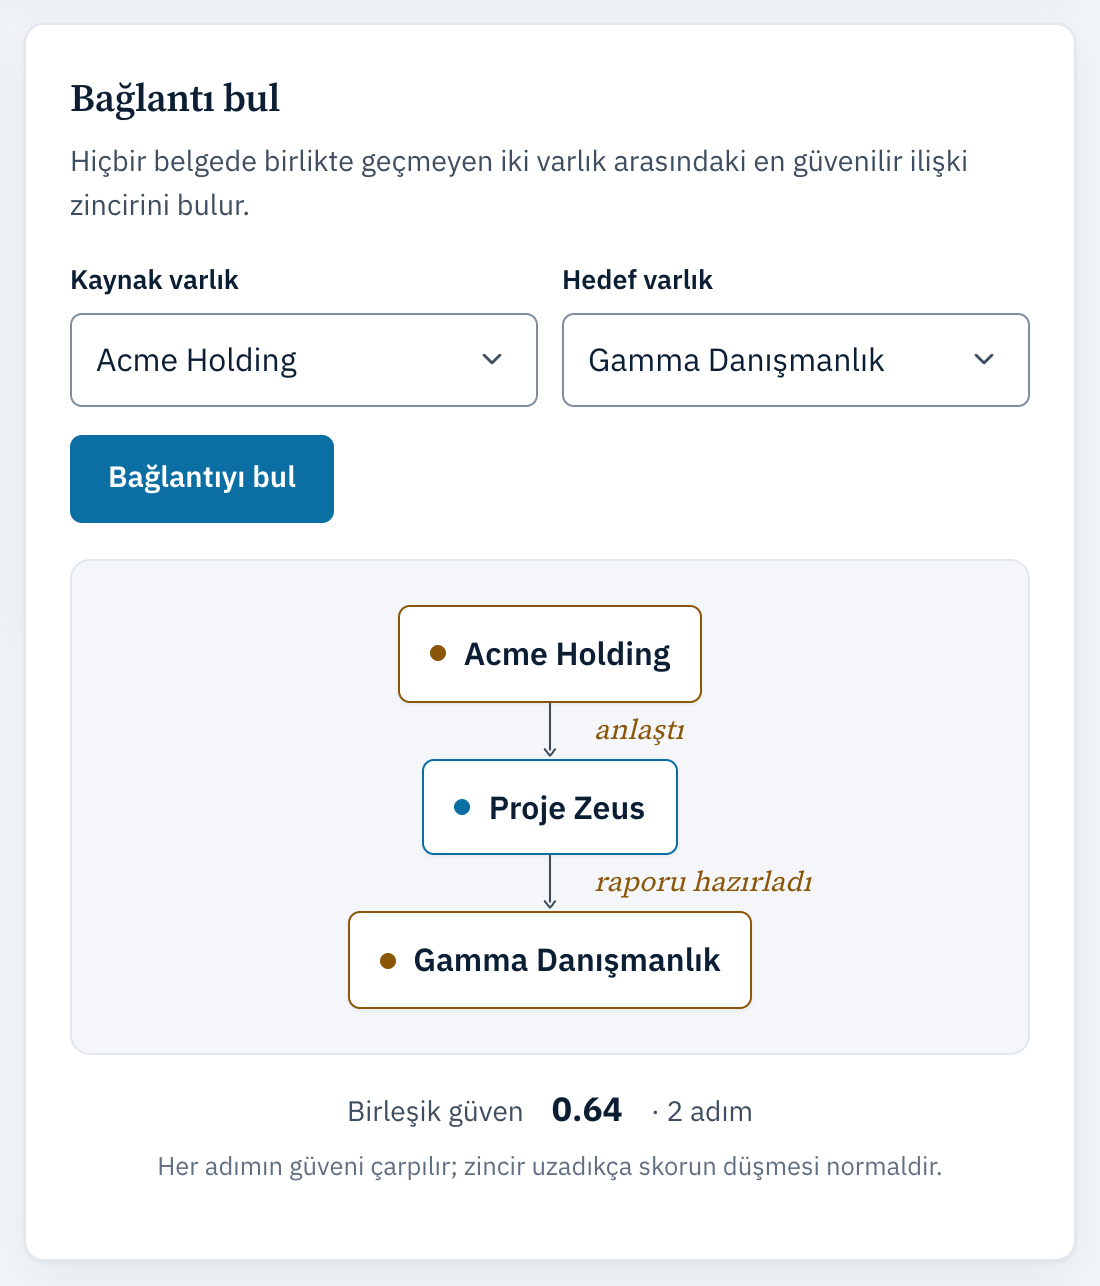
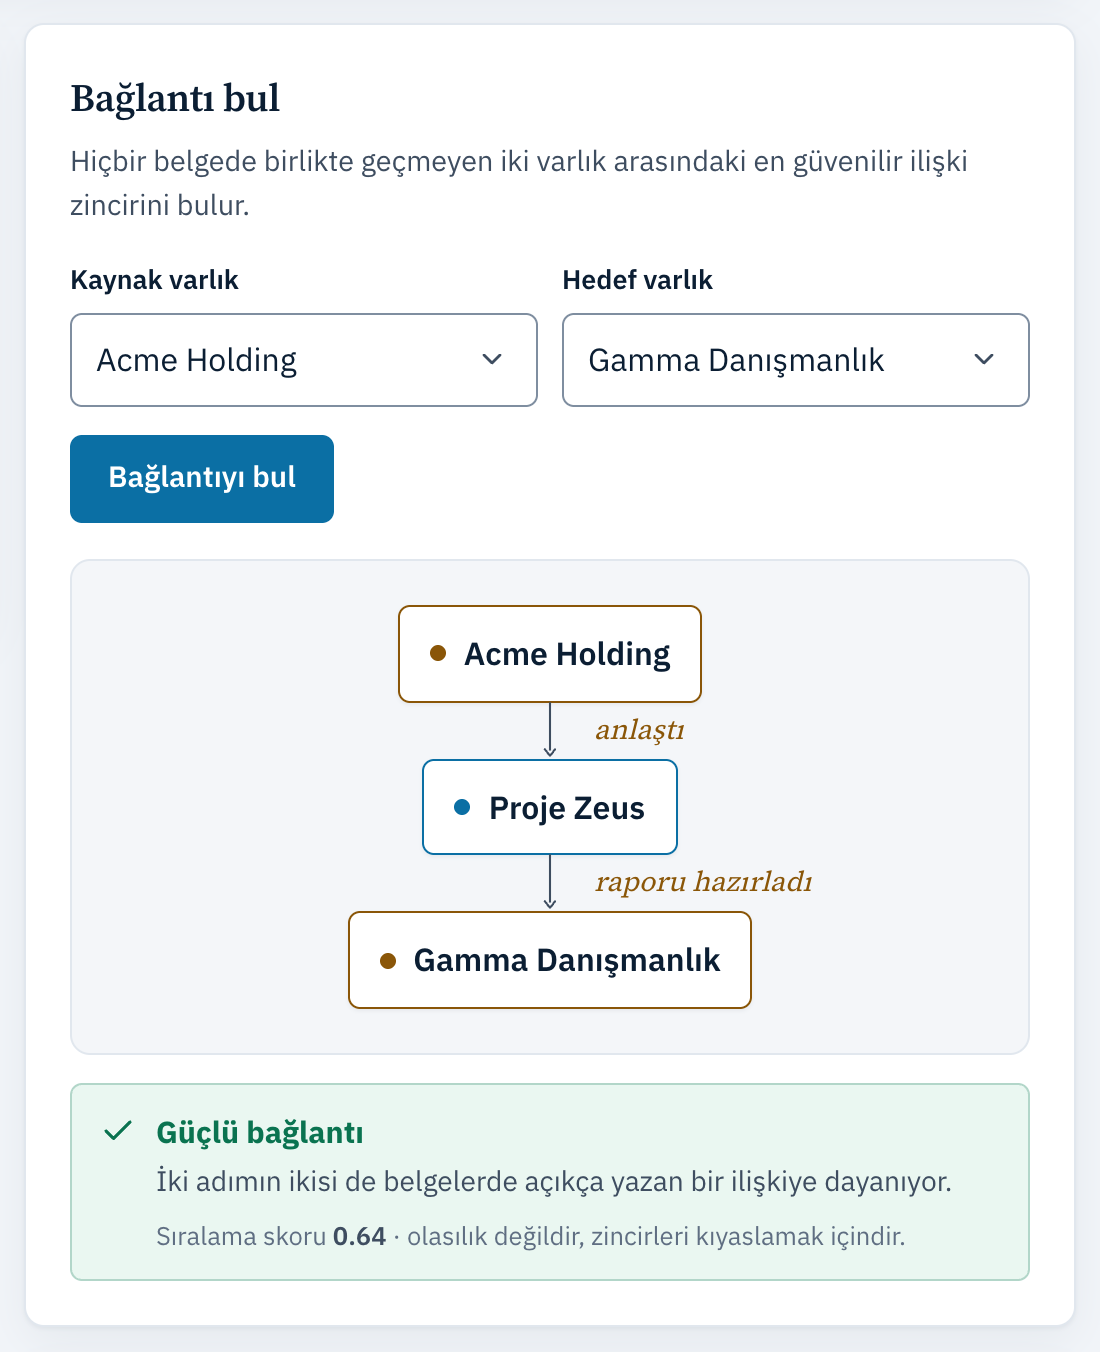
Bağlantı sonucunda skor yerine kanıt türünü göster: her adım açık ilişki mi yoksa yalnızca aynı belgede geçme mi belli olsun. (#44)
Skorun olasılık olmadığı arayüzde ve README'de açıkça yazıyor.

diff --git a/static/index.html b/static/index.html
@@ -304,9 +304,21 @@
       .node { white-space: normal; max-width: 100%; text-align: left; }
     }
 
-    .conf { display: flex; flex-wrap: wrap; justify-content: center; align-items: baseline; gap: 6px 14px; margin-top: 14px; font-size: .88rem; color: var(--muted); text-align: center; }
-    .conf b { color: var(--ink); font-size: 1.05rem; font-variant-numeric: tabular-nums; }
-    .conf small { flex-basis: 100%; color: var(--faint); font-size: .8rem; }
+    /* Yalnızca aynı belgede geçmeye dayanan adım: soluk etiket + kesik ok */
+    .edge.weak .rel { color: var(--muted); }
+    .edge.weak svg path:first-child { stroke-dasharray: 3 3; }
+
+    /* Sonuç kararı: sayıyı değil KANITI öne çıkarır (skor olasılık değildir) */
+    .verdict { display: flex; gap: 10px; margin-top: 14px; padding: 12px 14px; border-radius: var(--r); border: 1px solid; }
+    .verdict svg { width: 18px; height: 18px; flex: 0 0 auto; margin-top: 2px; }
+    .verdict b { display: block; font-size: .95rem; }
+    .verdict p { margin: 2px 0 0; font-size: .88rem; color: var(--muted); }
+    .verdict .score { margin-top: 6px; font-size: .8rem; color: var(--faint); }
+    .verdict .score span { font-variant-numeric: tabular-nums; font-weight: 600; color: var(--muted); }
+    .verdict.strong { background: var(--ok-soft); border-color: color-mix(in srgb, var(--ok) 25%, transparent); }
+    .verdict.strong svg, .verdict.strong b { color: var(--ok); }
+    .verdict.mixed, .verdict.weak { background: var(--amber-soft); border-color: color-mix(in srgb, var(--amber) 25%, transparent); }
+    .verdict.mixed svg, .verdict.mixed b, .verdict.weak svg, .verdict.weak b { color: var(--amber); }
 
     /* ===== Varlık listesi ===== */
     .filter { margin-bottom: 10px; }
@@ -1081,6 +1093,8 @@
     function renderConnection(out, veri) {
       if (!veri.found) { notice(out, "info", veri.message); return; }
       const nodes = veri.nodes, rels = veri.relations || [];
+      // Kanıt türü sunucudan gelir; eski sunucu için etiketten türetilir
+      const kanit = veri.evidence || rels.map(r => r ? "relation" : "co_occurrence");
 
       const wrap = el("div", "chain-wrap");
       const chain = el("ol", "chain");
@@ -1091,22 +1105,49 @@
         chain.appendChild(node);
         if (i < nodes.length - 1) {
           // Ok yalnızca iki düğüm arasına konur; etiket metinden çıkarılan ilişkidir
-          const edge = el("li", "edge");
-          edge.setAttribute("aria-label", rels[i] ? "ilişki: " + rels[i] : "aynı belgede geçiyor");
+          const zayif = kanit[i] !== "relation";
+          const edge = el("li", "edge" + (zayif ? " weak" : ""));
+          edge.setAttribute("aria-label", zayif ? "yalnızca aynı belgede geçiyor" : "ilişki: " + rels[i]);
           edge.style.animationDelay = (i * 0.12 + 0.06) + "s";
-          if (rels[i]) edge.appendChild(el("span", "rel", rels[i]));
+          edge.appendChild(el("span", "rel", zayif ? "aynı belgede" : rels[i]));
           edge.insertAdjacentHTML("beforeend", ICON.arrow);
           chain.appendChild(edge);
         }
       });
       wrap.appendChild(chain);
 
-      const conf = el("p", "conf");
-      conf.append(document.createTextNode("Birleşik güven "),
-                  el("b", null, Number(veri.confidence).toFixed(2)),
-                  document.createTextNode(" · " + (nodes.length - 1) + " adım"),
-                  el("small", null, "Her adımın güveni çarpılır; zincir uzadıkça skorun düşmesi normaldir."));
-      out.replaceChildren(wrap, conf);
+      out.replaceChildren(wrap, kararKutusu(veri, kanit));
+    }
+
+    /* Zincirin neye dayandığını düz Türkçeyle söyler. Skor yalnızca ikincil
+       bilgi: elle seçilmiş ağırlıkların çarpımıdır, kalibre bir olasılık değil. */
+    function kararKutusu(veri, kanit) {
+      const n = kanit.length, t = kanit.filter(k => k === "relation").length, c = n - t;
+      const guc = veri.strength || (t === n ? "strong" : t === 0 ? "weak" : "mixed");
+      const METIN = {
+        strong: ["Güçlü bağlantı", n === 1
+          ? "Bu adım belgelerde açıkça yazan bir ilişkiye dayanıyor."
+          : (n === 2 ? "İki adımın ikisi de" : n + " adımın hepsi") +
+            " belgelerde açıkça yazan bir ilişkiye dayanıyor."],
+        mixed: ["Kısmen dolaylı bağlantı",
+          (n === 2 ? "İki adımdan biri açık bir ilişkiye, diğeri"
+                   : n + " adımdan " + t + " tanesi açık bir ilişkiye, " + c + " tanesi") +
+          " yalnızca aynı belgede geçmeye dayanıyor. Kesik oklu adımı kaynak belgeden doğrulayın."],
+        weak: ["Zayıf bağlantı", n === 1
+          ? "Bu adım açık bir ilişkiye değil, yalnızca aynı belgede geçmeye dayanıyor."
+          : "Adımların hiçbiri açık bir ilişki değil; varlıklar yalnızca aynı belgelerde geçiyor."],
+      }[guc];
+
+      const kutu = el("div", "verdict " + guc);
+      kutu.innerHTML = guc === "strong" ? ICON.check : ICON.alert;
+      const govde = el("div");
+      const skor = el("p", "score");
+      skor.append(document.createTextNode("Sıralama skoru "),
+                  el("span", null, Number(veri.confidence).toFixed(2)),
+                  document.createTextNode(" · olasılık değildir, zincirleri kıyaslamak içindir."));
+      govde.append(el("b", null, METIN[0]), el("p", null, METIN[1]), skor);
+      kutu.appendChild(govde);
+      return kutu;
     }
 
     /* ================================================================

diff --git a/graphrag/application/graphrag_core.py b/graphrag/application/graphrag_core.py
@@ -275,10 +275,17 @@ class GraphRAGCore:
 
         "Bağlantı yok" ile "böyle bir varlık yok" farklı durumlardır; kullanıcıya
         hangisi olduğu söylenir (yazım hatasını fark edebilsin diye).
+
+        KANIT TÜRÜ: `confidence` elle seçilmiş sabitlerin (0.8 / 0.5) çarpımıdır,
+        kalibre edilmiş bir olasılık DEĞİLDİR; zincirleri kıyaslamaya yarar.
+        Kullanıcının asıl bilmesi gereken, her adımın neye dayandığıdır:
+          - `evidence`: her adım için "relation" (metinden çıkarılmış tipli
+            ilişki) ya da "co_occurrence" (yalnızca aynı belgede geçme)
+          - `strength`: "strong" (hepsi ilişki) · "mixed" · "weak" (hiçbiri)
         """
         def bulunamadi(mesaj: str) -> dict:
-            return {"found": False, "nodes": [], "relations": [],
-                    "confidence": 0.0, "message": mesaj}
+            return {"found": False, "nodes": [], "relations": [], "evidence": [],
+                    "strength": "", "confidence": 0.0, "message": mesaj}
 
         kaynak, hedef = canonical_entity_key(source_id), canonical_entity_key(target_id)
         for ad, anahtar in ((source_id, kaynak), (target_id, hedef)):
@@ -294,10 +301,19 @@ class GraphRAGCore:
         except PathNotFoundError:
             return bulunamadi("Bu iki varlık arasında bilinen bir bağlantı bulunamadı.")
 
+        # Etiketi olan kenar metinden çıkarılmış ilişkidir; boş etiket, yalnızca
+        # aynı belgede birlikte geçmeden doğan zayıf kenardır (bkz. ingest).
+        kanit = ["relation" if r else "co_occurrence" for r in path.relations]
+        tipli = kanit.count("relation")
+        guc = ("strong" if tipli == len(kanit)
+               else "weak" if tipli == 0 else "mixed")
+
         return {
             "found": True,
             "nodes": [self._graph.get_node(n).label for n in path.nodes],
             "relations": list(path.relations),
+            "evidence": kanit,
+            "strength": guc,
             "confidence": round(path.probability, 4),
             "message": "",
         }

diff --git a/tests/test_graphrag_core.py b/tests/test_graphrag_core.py
@@ -426,3 +426,50 @@ def test_find_connection_ayni_varligi_reddeder():
     sonuc = core.find_connection_detailed("Acme Holding", "ACME HOLDİNG A.Ş.")
     assert sonuc["found"] is False
     assert "aynı" in sonuc["message"]
+
+
+# ------------------------------------------- kanıt türü (skor olasılık değil)
+
+def test_tipli_iliskiyle_kurulan_zincir_guclu_sayilir():
+    core, loader, _llm, _vec, _graph = _core_kur()
+    core._relations.iliskiler = [
+        Relation(source="Acme Holding", relation="anlaştı", target="Beta Firması")
+    ]
+    loader.texts["a"] = "Acme Holding, Beta Firması ile anlaştı."
+    core.ingest("a")
+
+    sonuc = core.find_connection_detailed("Acme Holding", "Beta Firması")
+
+    assert sonuc["evidence"] == ["relation"]
+    assert sonuc["strength"] == "strong"
+
+
+def test_yalnizca_birlikte_gecme_zayif_sayilir():
+    core, loader, _llm, _vec, _graph = _core_kur()
+    core._relations.iliskiler = []
+    loader.texts["a"] = "Acme Holding ve Beta Firması aynı belgede geçiyor."
+    core.ingest("a")
+
+    sonuc = core.find_connection_detailed("Acme Holding", "Beta Firması")
+
+    assert sonuc["evidence"] == ["co_occurrence"]
+    assert sonuc["strength"] == "weak"
+
+
+def test_iliski_ve_birlikte_gecme_karisinca_karma_sayilir():
+    # Acme --anlaştı--> Proje Zeus (tipli) · Proje Zeus — Gamma (yalnızca birlikte)
+    core, loader, _llm, _vec, _graph = _core_kur()
+    core._relations.iliskiler = [
+        Relation(source="Acme Holding", relation="anlaştı", target="Proje Zeus")
+    ]
+    loader.texts["a"] = "Acme Holding, Proje Zeus için anlaştı."
+    core.ingest("a")
+    core._relations.iliskiler = []
+    loader.texts["b"] = "Proje Zeus kapsamında Gamma Danışmanlık çalıştı."
+    core.ingest("b")
+
+    sonuc = core.find_connection_detailed("Acme Holding", "Gamma Danışmanlık")
+
+    assert sonuc["evidence"] == ["relation", "co_occurrence"]
+    assert sonuc["strength"] == "mixed"
+    assert sonuc["confidence"] == round(0.8 * 0.5, 4)

diff --git a/tests/test_api.py b/tests/test_api.py
@@ -47,7 +47,8 @@ class _SahteCore:
 
     def find_connection_detailed(self, source, target):
         return {"found": True, "nodes": [source, target],
-                "relations": ["anlaştı"], "confidence": 0.5, "message": ""}
+                "relations": ["anlaştı"], "evidence": ["relation"],
+                "strength": "strong", "confidence": 0.8, "message": ""}
 
     def stats(self):
         return {"documents": 1, "chunks": 3, "entities": 4,
@@ -131,6 +132,7 @@ def test_connection_yapilandirilmis_sonuc_doner():
     assert body["found"] is True
     assert body["nodes"] == ["A", "B"]
     assert body["relations"] == ["anlaştı"]
+    assert body["strength"] == "strong"
 
 
 def test_stats_ozet_doner():

diff --git a/README.md b/README.md
@@ -21,7 +21,8 @@ gizli bağlantıları keşfedin — hepsi tamamen yerelde.
 
 Solda: *"Gamma Danışmanlık ne iş yaptı?"* sorusuna iki belgeden 3 parçaya dayanan, kaynaklı cevap.
 Sağda: hiçbir belgede birlikte geçmeyen **Acme Holding ↔ Gamma Danışmanlık**
-firmalarının, bilgi grafı üzerinden bulunan bağlantı zinciri.
+firmalarının, bilgi grafı üzerinden bulunan bağlantı zinciri; iki adımın
+ikisi de metinden çıkarılmış ilişki olduğu için "güçlü bağlantı" olarak işaretlenir.
 
 ---
 
@@ -51,7 +52,7 @@ flowchart LR
     Z -- "raporu hazırladı" --> G["Gamma Danışmanlık"]
 ```
 
-`Birleşik güven: 0.64 · 2 adım · 0.02 saniye`
+`Güçlü bağlantı (2 adımın ikisi de metinden çıkarılmış ilişki) · sıralama skoru 0.64 · 0.02 saniye`
 
 Dikkat edilecek nokta: sistem yalnızca "bağlılar" demez, **her adımın ilişki
 türünü** de metinden çıkarır — böylece zincir okunabilir ve denetlenebilir olur.
@@ -61,6 +62,16 @@ Sonuç bir yapay zekâ tahmini değildir. Graf üzerinde **Dijkstra algoritması
 yolun toplam güveni adımların çarpımı olduğundan, logaritma bu çarpımı toplama
 çevirir ve **en kısa yol = en güvenilir zincir** hâline gelir. Aynı soru her
 zaman aynı cevabı verir.
+
+**Skor bir olasılık değildir.** Kenar güvenleri elle seçilmiş sabitlerdir
+(metinden çıkarılmış ilişki 0.8, yalnızca aynı belgede geçme 0.5) ve veriyle
+kalibre edilmemiştir; 0.64, "%64 ihtimalle doğru" anlamına gelmez, yalnızca
+zincirleri birbiriyle kıyaslamaya yarar. Bu yüzden arayüz sayıyı değil
+**kanıtın türünü** öne çıkarır: her adım ya açık bir ilişki ya da yalnızca
+birlikte geçmedir (kesik okla gösterilir), zincir de buna göre **güçlü**,
+**kısmen dolaylı** ya da **zayıf** olarak işaretlenir. Örnek arşivde bunun
+neden önemli olduğu görülüyor: tek adımlık zayıf bir zincir (0.50) ile üç
+adımlık güçlü bir zincir (0.51) neredeyse aynı skoru alıyor.
 
 ---
 
@@ -242,7 +253,7 @@ Ollama (`qwen2.5:7b`, `bge-m3`) · rank-bm25 · pytest · Docker · GitHub Actio
 python -m pytest
 ```
 
-**171 test** — birim ve entegrasyon. Dış bağımlılıklar (LLM, dosya sistemi)
+**178 test** — birim ve entegrasyon. Dış bağımlılıklar (LLM, dosya sistemi)
 sahte nesnelerle değiştirilir; testler internet veya model gerektirmez.
 Her Pull Request'te **GitHub Actions** ile Python 3.10 ve 3.12'de otomatik çalışır.
 
@@ -271,6 +282,7 @@ açıkça ortaya koyar.
 |---|---|---|
 | **İlişki yönü** | Etiket zincirde okunduğu yönde çevrilmez — yukarıdaki örnekte raporu hazırlayan aslında Gamma'dır, ok ise Zeus'tan çıkar | Kenarı yönüne göre çevirme (`hazırladı` ⇄ `hazırlandı`) |
 | **Ölçek** | 5 belgelik bir gösterim; büyük arşivle denenmedi | pgvector indeksleme (HNSW) + asenkron yükleme kuyruğu |
+| **Güven skoru** | 0.8 / 0.5 sabitleri elle seçildi; skor kalibre bir olasılık değil (arayüz bu yüzden kanıt türünü gösterir) | Etiketli örneklerle kenar güvenlerini kalibre etmek |
 | **Retrieval hassasiyeti** | Hibrit arama var, yeniden sıralayıcı (reranker) yok | Cross-encoder reranker — çok adaylı aramada isabeti artırır |
 | **Aktarım güvenliği** | API anahtarı HTTP üzerinden düz metin gider | Ters proxy arkasında HTTPS |
 | **Yetkilendirme** | Tek anahtar; "kim ne yaptı" izlenmiyor | Kullanıcı bazlı giriş + rol tabanlı yetki (KVKK denetimi için değerli) |
@@ -291,7 +303,7 @@ Tümü (sağlık ucu hariç) `X-API-Key` başlığı ister. Etkileşimli belge:
 | `POST /documents` | `ornek_belgeler/` içindeki bir örnek belgeyi yükler |
 | `GET /documents` · `DELETE /documents[/{id}]` | Belgeleri listeler / siler |
 | `POST /ask` | Soru sorar; cevap + kaynak parçalar |
-| `GET /connection?source=&target=` | İki varlık arasındaki en güvenilir zincir |
+| `GET /connection?source=&target=` | İki varlık arasındaki en güvenilir zincir; her adımın kanıt türü (`evidence`) ve zincirin gücü (`strength`) |
 | `GET /entities` · `GET /stats` · `GET /audit` | Varlıklar, özet sayılar, KVKK kaydı |
 
 ---
